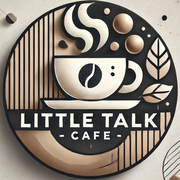
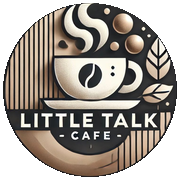
icom up

Changed region(s): [[0.0, 0.0, 1.0, 1.0]]

diff --git a/README.md b/README.md
@@ -1,35 +1,25 @@
-# Little Talk Cafe — V36 Fix Favicon Build
+# Little Talk Cafe — V37 Circle Tab Icon Patch
 
-This patch fixes the Netlify build error caused by the favicon.
+This patch changes the browser tab logo/favicon from a square version to a circular version.
 
-## Fixed
+## Files included
 
-- Replaces app/favicon.ico with a proper RGBA favicon
-- Keeps app/icon.png
-- Keeps app/apple-icon.png
-
-## Error fixed
-
-Netlify error:
-
-```txt
-./app/favicon.ico
-Processing image failed
-The PNG is not in RGBA format
-```
+- app/favicon.ico
+- app/icon.png
+- app/apple-icon.png
 
 ## Apply patch
 
-Copy the patch contents into your live project folder with `package.json`, replace files, then run locally if you want:
+Copy the patch contents into your live project folder with `package.json`, replace files, then in GitHub Desktop:
 
-```bash
-npm.cmd run build
-```
+Commit message: Make favicon circular
 
-Then commit and push in GitHub Desktop:
-
-```txt
-Commit message: Fix favicon build error
-```
+Then click:
+- Commit to main
+- Push origin
 
 Netlify should redeploy automatically.
+
+## Note
+
+Favicons cache a lot, so if the old square icon still shows, hard refresh or open the site in an incognito/private window.